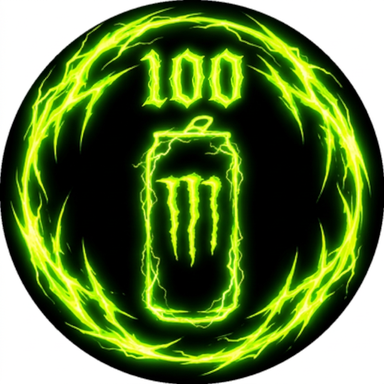
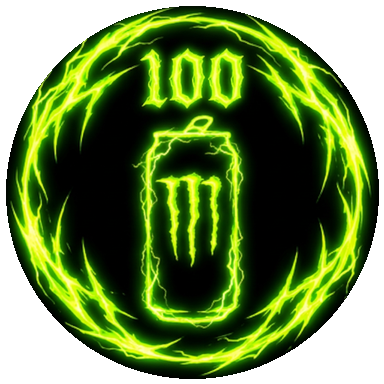
Badges : fond transparent (plus de blanc), retrait wishlist/degustateur/social/bande de potes (build v81)

diff --git a/docs/js/app.js b/docs/js/app.js
@@ -1565,16 +1565,12 @@ window.loadUpdates = function () {
 };
 // ── Succès (badges bêta) ──
 const MT_BADGES = [
-  { img: 'img/badges/canettes-1.png?v=1', ico: '🥫', nom: 'Première canette', desc: 'Obtenir votre première canette', ok: (s) => s.owned >= 1 },
-  { img: 'img/badges/canettes-5.png?v=2', ico: '🥫', nom: '5 canettes', desc: 'Avoir 5 canettes dans ta collection', ok: (s) => s.owned >= 5 },
-  { img: 'img/badges/canettes-10.png?v=2', ico: '🔟', nom: '10 canettes', desc: 'Avoir 10 canettes dans ta collection', ok: (s) => s.owned >= 10 },
-  { img: 'img/badges/canettes-25.png?v=2', ico: '🎖', nom: '25 canettes', desc: 'Avoir 25 canettes dans ta collection', ok: (s) => s.owned >= 25 },
-  { img: 'img/badges/canettes-50.png?v=2', ico: '🏅', nom: '50 canettes', desc: 'Avoir 50 canettes dans ta collection', ok: (s) => s.owned >= 50 },
-  { img: 'img/badges/canettes-100.png?v=2', ico: '👑', nom: '100 canettes', desc: 'Avoir 100 canettes dans ta collection', ok: (s) => s.owned >= 100 },
-  { ico: '♥', nom: 'Envie', desc: 'Ajouter 1 canette à ta wishlist', ok: (s) => s.wish >= 1 },
-  { ico: '🥤', nom: 'Dégustateur', desc: 'Marquer 1 canette comme bue', ok: (s) => s.drinks >= 1 },
-  { ico: '🤝', nom: 'Social', desc: 'Avoir 1 ami', ok: (s) => s.friends >= 1 },
-  { ico: '👥', nom: 'Bande de potes', desc: 'Avoir 5 amis', ok: (s) => s.friends >= 5 },
+  { img: 'img/badges/canettes-1.png?v=3', ico: '🥫', nom: 'Première canette', desc: 'Obtenir votre première canette', ok: (s) => s.owned >= 1 },
+  { img: 'img/badges/canettes-5.png?v=3', ico: '🥫', nom: '5 canettes', desc: 'Avoir 5 canettes dans ta collection', ok: (s) => s.owned >= 5 },
+  { img: 'img/badges/canettes-10.png?v=3', ico: '🔟', nom: '10 canettes', desc: 'Avoir 10 canettes dans ta collection', ok: (s) => s.owned >= 10 },
+  { img: 'img/badges/canettes-25.png?v=3', ico: '🎖', nom: '25 canettes', desc: 'Avoir 25 canettes dans ta collection', ok: (s) => s.owned >= 25 },
+  { img: 'img/badges/canettes-50.png?v=3', ico: '🏅', nom: '50 canettes', desc: 'Avoir 50 canettes dans ta collection', ok: (s) => s.owned >= 50 },
+  { img: 'img/badges/canettes-100.png?v=3', ico: '👑', nom: '100 canettes', desc: 'Avoir 100 canettes dans ta collection', ok: (s) => s.owned >= 100 },
 ];
 window.loadSucces = function () {
   const el = document.getElementById('succes-ct');
@@ -1923,7 +1919,7 @@ function mtFamThumb(c, w) {
 }
 const MT_EDLBL = { modernwarfare4: 'Modern Warfare 4', blackops7: 'Black Ops 7', blackops6: 'Black Ops 6', apex: 'Apex' };
 const MT_APPVER = '1.0.1';
-const MT_BUILD = 'mt-v80';
+const MT_BUILD = 'mt-v81';
 const MT_BUILD_DATE = '16/10/2026';
 window.MT_BUILD = MT_BUILD;
 window.MT_APPVER = MT_APPVER;
@@ -2732,7 +2728,7 @@ function loadMaintStatus() {
 
 // ── PWA ──
 if ('serviceWorker' in navigator) {
-  window.addEventListener('load', () => navigator.serviceWorker.register('sw.js?v=80', { updateViaCache: 'none' })
+  window.addEventListener('load', () => navigator.serviceWorker.register('sw.js?v=81', { updateViaCache: 'none' })
     .then((r) => { if (r && r.update) r.update(); }).catch(() => {}));
 }
 window.addEventListener('beforeinstallprompt', (e) => { e.preventDefault(); _installPrompt = e; const btn = document.getElementById('pwa-install-btn'); if (btn && user) btn.style.display = 'block'; });

diff --git a/docs/sw.js b/docs/sw.js
@@ -18,9 +18,9 @@ self.addEventListener('notificationclick', (e) => {
 
 // MonsterTracker statique — Service Worker
 // Cache d'abord (network-first en ligne, cache en secours) → fonctionne hors-ligne une fois visité.
-const CACHE = 'mt-v80';
-const IMGS = 'mt-img-v80';
-const SHELL = ['./', './index.html', './support.html', './css/style.css?v=80', './js/app.js?v=80', './js/support.js', './js/qrcode.min.js', './icon.png', './img/logo-wordmark.png', './manifest.json'];
+const CACHE = 'mt-v81';
+const IMGS = 'mt-img-v81';
+const SHELL = ['./', './index.html', './support.html', './css/style.css?v=81', './js/app.js?v=81', './js/support.js', './js/qrcode.min.js', './icon.png', './img/logo-wordmark.png', './manifest.json'];
 
 self.addEventListener('install', (e) => {
   e.waitUntil(caches.open(CACHE).then((c) => c.addAll(SHELL)).then(() => self.skipWaiting()));

diff --git a/docs/index.html b/docs/index.html
@@ -14,7 +14,7 @@
 <link rel="apple-touch-icon" href="icon.png"/>
 <link rel="manifest" href="manifest.json"/>
 <link href="https://fonts.googleapis.com/css2?family=Bebas+Neue&family=Barlow+Condensed:wght@400;600;700;800;900&family=Barlow:wght@400;500;600;700;800;900&display=swap" rel="stylesheet">
-<link rel="stylesheet" href="css/style.css?v=80">
+<link rel="stylesheet" href="css/style.css?v=81">
 </head>
 <body>
 <div id="sim-banner"><span>&#128065; SIMULATION VUE USER</span><button onclick="toggleSimUser()">RETOUR ADMIN</button></div>
@@ -732,6 +732,6 @@
 </div>
 
 <script src="js/qrcode.min.js"></script>
-<script type="module" src="js/app.js?v=80"></script>
+<script type="module" src="js/app.js?v=81"></script>
 </body>
 </html>

diff --git a/docs/support.html b/docs/support.html
@@ -126,6 +126,6 @@
   </div>
 </div>
 <div class="toasts" id="toasts"></div>
-<script type="module" src="js/support.js?v=80"></script>
+<script type="module" src="js/support.js?v=81"></script>
 </body>
 </html>
